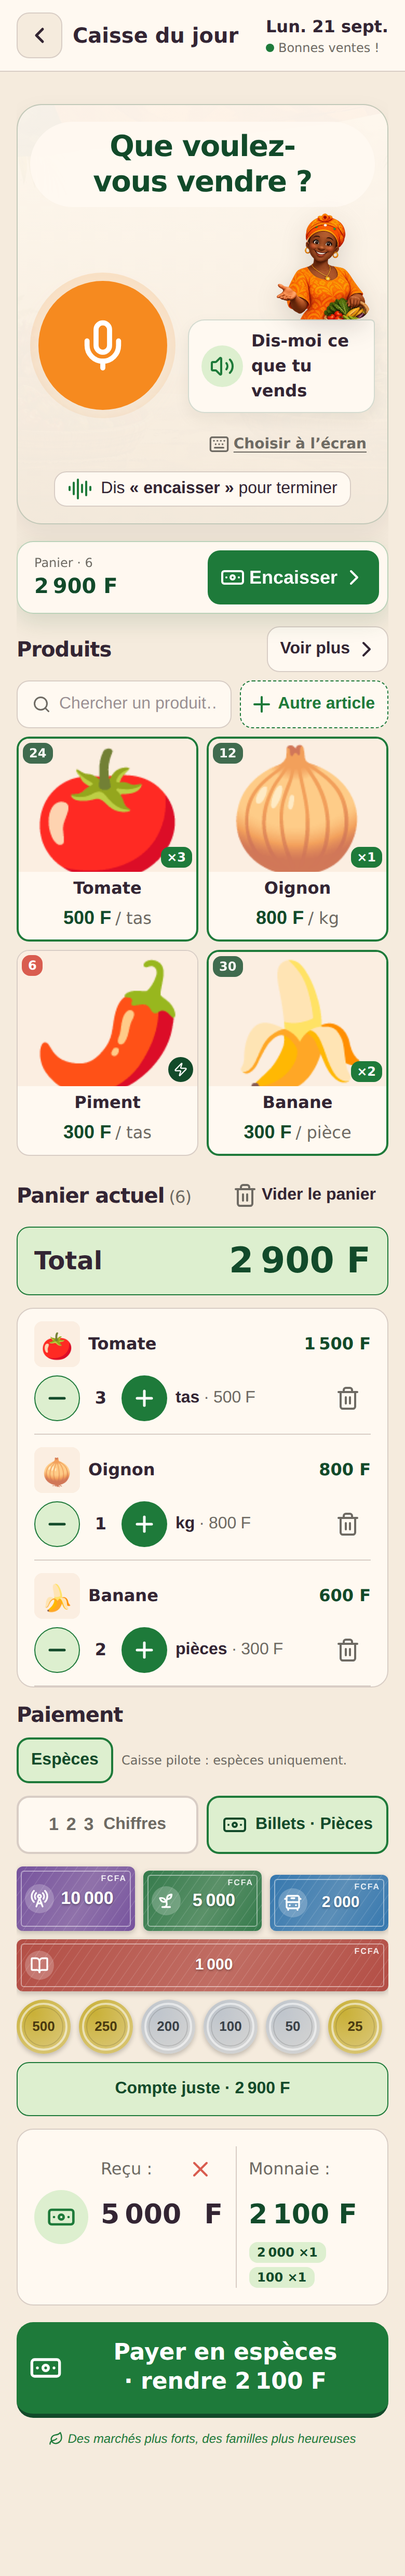
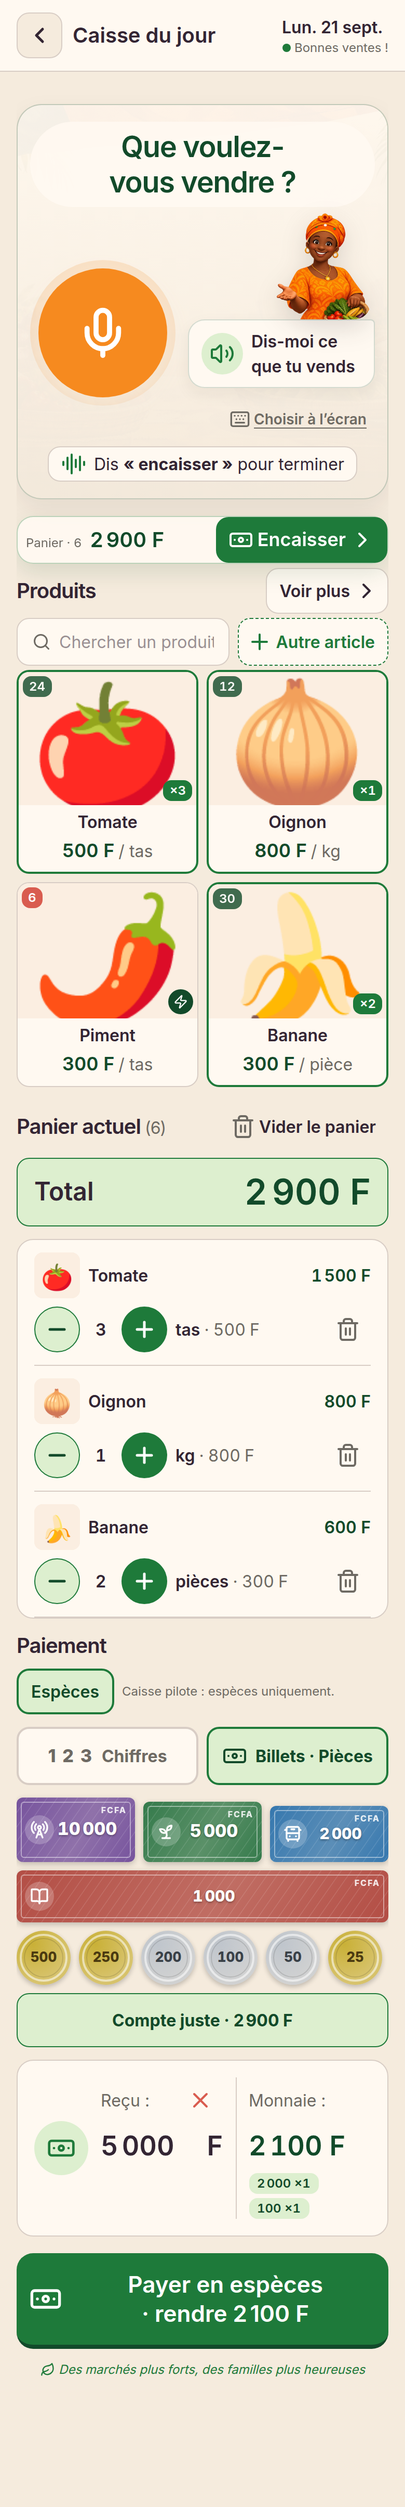
fix(caisse): UI-06 — la carte produit tient au premier ecran
Decision de Patrick : on garde le raccourci panier et le Total au premier ecran,
on reduit seulement son encombrement vertical.

MESURES, banc 390x844, defilement 0, panier de demonstration.
Avant  : premiere carte produit 684 -> 880 pour un ecran de 844, 36 px manquants.
Apres  : 644 -> 840, la carte entiere tient, 4 px de marge.
Le raccourci passe de 82 a 50 px de flux : hauteur 70 -> 46, marge 12 -> 4.

COMMENT. Une seule ligne : le nombre d'articles et le total complet sont
desormais cote a cote au lieu d'etre empiles, et le padding vertical du bloc
disparait au profit du bouton. Le bouton descend de 52 a 44 px, le plancher
tactile, jamais en dessous. Cela rend 32 px. Les 4 derniers viennent de deux
marges de 8 a 4 px, sous « Produits » et sous la rangee du filtre : ni la zone
voix ni les cartes produit ne sont touchees, comme exige.

Aucune logique metier modifiee : deux regles CSS et deux marges en ligne.
Le garde-fou du chemin d'argent reste silencieux, aucun fichier du noyau touche.

BANC : sortie 0, les quatre conditions tiennent sans tricherie — surface de
vente comprehensible, acces vocal et tactile, apercu du panier, Total visible.

Le banc n'est PAS branche dans verify, et c'est motive : il lui faut un Chromium
a un chemin fixe, absent des executeurs d'integration continue, et aucun flux
d'integration ne lance verify aujourd'hui. L'y brancher ne garderait rien en
integration continue et rendrait verify dependant d'un binaire de navigateur.
[…]

Changed region(s): [[0.0308, 0.0, 0.9846, 0.9647], [0.0923, 0.0, 0.1231, 0.0311]]

diff --git a/frontend_src/src/styles/commerce.css b/frontend_src/src/styles/commerce.css
@@ -337,11 +337,11 @@ html.dark {
 
 /* Panier visible sans second écran : ce dock reste dans le flux et conduit au
    paiement déjà présent sur la même page. Il ne contient aucune action d'argent. */
-.caisse-panier-raccourci { position: sticky; top: 0; z-index: 20; display: grid; grid-template-columns: minmax(0, 1fr) auto; align-items: center; gap: var(--caisse-esp-2); margin: 0 0 var(--caisse-esp-3); padding: var(--caisse-esp-2); border: 1px solid rgba(30,122,58,.3); border-radius: var(--caisse-rayon-4); background: color-mix(in srgb, var(--caisse-ivoire) 92%, transparent); box-shadow: 0 8px 22px rgba(18,74,42,.13); backdrop-filter: blur(10px); }
-.caisse-panier-raccourci-total { min-width: 0; display: flex; flex-direction: column; padding-left: var(--caisse-esp-2); color: var(--encre); }
+.caisse-panier-raccourci { position: sticky; top: 0; z-index: 20; display: grid; grid-template-columns: minmax(0, 1fr) auto; align-items: center; gap: var(--caisse-esp-2); margin: 0 0 var(--caisse-esp-1); padding: 0 0 0 var(--caisse-esp-2); border: 1px solid rgba(30,122,58,.3); border-radius: var(--caisse-rayon-4); background: color-mix(in srgb, var(--caisse-ivoire) 92%, transparent); box-shadow: 0 8px 22px rgba(18,74,42,.13); backdrop-filter: blur(10px); }
+.caisse-panier-raccourci-total { min-width: 0; display: flex; flex-direction: row; align-items: baseline; gap: var(--caisse-esp-2); padding-left: 0; color: var(--encre); }
 .caisse-panier-raccourci-total span { font: var(--caisse-font-legende); color: var(--caisse-gris-texte); }
 .caisse-panier-raccourci-total strong { font: var(--caisse-font-h2); color: var(--caisse-vert-fonce); font-variant-numeric: tabular-nums; white-space: nowrap; }
-.caisse-panier-raccourci button { min-height: 52px; display: flex; align-items: center; justify-content: center; gap: var(--caisse-esp-1); padding: 0 var(--caisse-esp-3); border: none; border-radius: var(--caisse-rayon-3); background: var(--caisse-vert); color: white; font: var(--caisse-font-bouton); font-family: inherit; cursor: pointer; }
+.caisse-panier-raccourci button { min-height: 44px; display: flex; align-items: center; justify-content: center; gap: var(--caisse-esp-1); padding: 0 var(--caisse-esp-3); border: none; border-radius: var(--caisse-rayon-3); background: var(--caisse-vert); color: white; font: var(--caisse-font-bouton); font-family: inherit; cursor: pointer; }
 @media (min-width: 1024px) { .caisse-panier-raccourci { display: none; } }
 
 /* Tata dans la caisse : l'image raconte le marché, mais le seul contrôle vocal

diff --git a/frontend_src/src/app/components/marchand/POSCaisse.tsx b/frontend_src/src/app/components/marchand/POSCaisse.tsx
@@ -996,7 +996,7 @@ function POSCaisseInner() {
             Au-dessus de 1024 px le panier est à CÔTÉ, pas dessous : la grille y
             reste entière et ce bouton n'existe pas (cf. .pos-grille-apercu
             dans styles/commerce.css). */}
-        <div style={{ display:'flex', alignItems:'center', justifyContent:'space-between', gap:'var(--caisse-esp-2)', marginBottom:'var(--caisse-esp-2)' }}>
+        <div style={{ display:'flex', alignItems:'center', justifyContent:'space-between', gap:'var(--caisse-esp-2)', marginBottom:'var(--caisse-esp-1)' }}>
           <h2 style={{ font:'var(--caisse-font-h2)', color:'var(--encre)', margin:0 }}>Produits</h2>
           {filtered.length > 4 && (
             <div className="lg:hidden">
@@ -1013,7 +1013,7 @@ function POSCaisseInner() {
             deux outils, pas deux sections — la maquette n'en montre aucun, ils
             restent pour celle qui a trente produits ou vend un article qui
             n'est pas listé. */}
-        <div style={{ display:'flex', gap:'var(--caisse-esp-2)', marginBottom:'var(--caisse-esp-2)' }}>
+        <div style={{ display:'flex', gap:'var(--caisse-esp-2)', marginBottom:'var(--caisse-esp-1)' }}>
         {/* UNE ÉTIQUETTE, PAS UNE BOÎTE — le défaut relevé par Patrick le 18/09.
             Il a tapé « banane » et rien n'est arrivé dans le champ : l'écran a
             continué d'afficher l'oignon. La cause n'était pas le filtre, elle

diff --git a/docs/dette/REGISTRE-MAITRE.md b/docs/dette/REGISTRE-MAITRE.md
@@ -1,6 +1,8 @@
 # Registre maître de dette technique — JULABA
 
 **Photo fidèle de la branche `claude/clever-allen-dnr8by`.**
+**Révision 28 — fermeture d'UI-06 sur `bbafafb`.** Patrick tranche : **on garde le raccourci panier et le Total au premier écran**, on réduit seulement son encombrement vertical. Le raccourci passe de 82 à 50 px de flux, une seule ligne, bouton au plancher tactile de 44 px, nombre d'articles et total complet conservés. La première carte produit tient désormais entière dans les 844 px, avec 4 px de marge, et **le banc sort à 0 sur les quatre conditions, sans tricherie**. Compte : **105 lignes — 39 FERMÉ / 5 HORS PÉRIMÈTRE JUSTIFIÉ / 61 OUVERT**. UI-05 reste ouverte.
+
 **Révision 27 — lot A8 (banc du premier écran, dette UI-05, tests d'écran Manus) sur `c527797`.** Le banc `apercu-caisse/capture.mjs` ne mesure plus une hauteur mais **la règle fonctionnelle tranchée par Patrick** : quatre conditions, à défilement zéro, panier non vide. **UI-03 n'est PAS rouverte** — mais ses chiffres de clôture ne tiennent plus (voir la ligne et ci-dessous) : c'est à Patrick de dire ce qu'on en fait. **Deux lignes ouvertes : UI-05** (P2, le raccourci panier n'est pas collant, cause isolée, 15 positions mesurées, aucun trou aujourd'hui) **et UI-06** (P2, aucune carte produit entière au premier écran quand le panier n'est pas vide — trouvée **par** la nouvelle règle). Compte recompté **par script** (`docs/dette/compter-registre.mjs`) : **105 lignes — 38 FERMÉ / 5 HORS PÉRIMÈTRE JUSTIFIÉ / 62 OUVERT** (avant : 103 — 38 / 5 / 60). Aucun statut existant ne change.
 **Révision 26 — lot F (architecture i18n voix, `2a62e9a`) contre-audité, NON fusionné, reprise lancée : aucune ligne existante fermée ; ses 4 invariants tiennent pour fr-ci (83/83 chaînes identiques à l'octet, 9 empreintes non circulaires, liste blanche = `576fd62`, STT/TTS séparés, brouillon refusé au runtime) mais pas pour la préférence « Dioula » déjà sélectionnable (I18N-01, P1 argent, introduit par F ; I18N-02, P2 — tous deux n'entrent qu'à la fusion). GARDE-02 reçoit la limite L5, fait plateforme reproduit sur le garde-fou fusionné : `test-voix-trace-source.mjs` ne voit ni `speakMessage(`, ni `direMessage(`, ni `dire(`, ni `direEtRetenir(`. Aucun statut ne change.**
 **Révision 25 — lot A (AUTH-RECOVERY-01, `521e1da`) contre-audité, NON fusionné, reprise lancée : le mécanisme tient (TTL, bcrypt, consommation atomique, révocation des refresh, aucun secret rendu, bornage de zone serveur) mais trois écarts avec la doctrine de Patrick (identificateur émetteur par nature, deux secrets reposés, rétrécissement à 4 chiffres) et deux défauts introduits (SEC-09, AUTH-02) qui n'entrent qu'à la fusion. Deux dettes PLATEFORME préexistantes, vérifiées sur `f5f26df`, ouvertes : SEC-10 (`users/:id/admin-reset-password` rend un mot de passe permanent en clair à l'admin) et AUTH-03 (un jeton d'accès survit 15 min à toute réinitialisation). Aucun statut existant ne change.**
@@ -652,7 +654,7 @@ reste multiple.
 | **UI-03** | **Arbitrage Patrick** | **FERMÉ** | *Fermée à la révision 20 (`62636e6`, contre-audit n°4).* Mesures du banc (`capture.mjs`, viewport 390 × 844, défilement 0) : zone voix **260 px** (cible 240-270), haut du panier **658 px**, barre Total **702-768 px** — dans le premier écran ; 38 cibles ≥ 44 px ; `scrollWidth` 390 (pas de défilement horizontal). Le banc **rougit** désormais si le haut du panier ou le bas du Total sort du viewport. Capture `caisse-portrait-UI03-comparaison.png` : voix + produits (une rangée) + « Panier actuel (6) » + **Total 2 900 F** visibles ; micro 124 px. **Écart structurel, à trancher par Patrick (pas un défaut)** : la barre **Total est AU-DESSUS des lignes du panier** (`renderCartTotal()` avant `renderCartLines()`, l. 1069-1071 et 1106-1107), alors que la maquette la met **dessous** — choix de l'agent pour que le Total reste au-dessus du pli avec dix lignes de panier. Le défaut d'origine : **hiérarchie du premier écran (F2) : à 390 × 844, panier, Total et Paiement passaient sous le pli.** Mesures de l'agent F2, à la même échelle (2 px d'image par px CSS), maquette → rendu : zone voix **217 → 386 px** (46 % du viewport), carte produit 99 → 180, Total 36 → 74, Reçu | Monnaie 86 → 170, bouton 48 → 92. Sur `caisse-portrait-F2-comparaison.png`, la maquette montre voix + produits + panier + Total + Paiement + bouton dans **771 px** ; le rendu F2 montre voix + « Dis encaisser » + « Saisir sans parler » + Produits (une rangée) dans **844 px**, le panier et l'argent en dessous. Deux consignes de Patrick tirent en sens inverse à cette hauteur : « agrandir nettement » (la zone voix) et « donner du poids à l'argent » | — *(consigné, pas tranché : ce n'est pas au contre-audit de choisir)* | **À trancher par Patrick** : garder la zone voix à 386 px et accepter l'argent sous le pli ; ou revenir vers 217-260 px pour ramener Total et Paiement dans le premier écran ; ou réduire le pli autrement (« Saisir sans parler » plus discret, une rangée de produits de moins).  **À LIRE AVANT DE S'APPUYER SUR CETTE LIGNE (révision 27, lot A8) : elle est FERMÉE SUR DES MESURES QUI NE TIENNENT PLUS.** Aucun des trois chiffres de clôture ci-dessus ne se retrouve sur la branche : mesuré sur `c527797`, zone voix **404 px** (et non 260), haut du panier **1 135** (et non 658), barre Total **1 179-1 245** (et non 702-768). Et la **règle** qu'elle avait installée dans le banc (« le banc rougit si le haut du panier ou le bas du Total sort du viewport ») a été **remplacée par Patrick** par les quatre conditions du premier écran ; le banc ne la mesure plus. **La ligne N'EST PAS ROUVERTE par ce lot** — ce qu'on fait d'une ligne fermée sur des chiffres périmés est un arbitrage, et cette ligne est déjà étiquetée « Arbitrage Patrick ». Ce que la nouvelle règle mesure et ce qu'elle a trouvé : UI-06. |
 | **UI-04** | P2 | **FERMÉ** | *Ouverte et fermée à la révision 20 (`62636e6`, trouvée par l'agent UI-03, reproduite au contre-audit n°4).* **Le lot F avait cassé l'aperçu du lot A en silence.** Sur `5bf2b0a`, la carte produit (`<motion.button onClick={() => ajouterAuPanier(p)}>`) portait `display:'flex'` **dans l'attribut `style`** ; un style inline bat la règle `.pos-grille-apercu > *:nth-child(n + 5) { display: none }` — **8 cartes visibles sur téléphone au lieu de 4** (visible sur `caisse-portrait-F2-comparaison.png` : deux rangées). Sur `96c7b64` : **0** `display` inline sur la carte ; `commerce.css` l. 276 `.pos-grille > * { display: flex; flex-direction: column }`, moins spécifique que la règle d'aperçu, qui gagne. Le banc `capture.mjs` compte `.pos-grille > *` visibles et **échoue au-delà de 4**. | `62636e6` | **Limite du garde-fou, à écrire** : `caisseSurfaceUnique.test.mts` l. 79-83 vérifie que la classe existe dans le JSX et que la règle existe dans le CSS — **la présence, pas l'effet**. Il est resté vert pendant trois révisions (F, relecture, F2) avec l'aperçu cassé. Seul un rendu (le banc headless) l'a vu. Une dette de test : soit le garde-fou vérifie aussi l'absence de `display` inline sur les enfants de `.pos-grille`, soit le banc entre dans `verify` |
 | **UI-05** | P2 | **OUVERT** | *Ouverte à la révision 27 (lot A8), reproduite par mesure sur `c527797` (= `e7f786a`, même arbre, mêmes parents).* **Le raccourci panier n'est pas collant : sa déclaration `position: sticky` est inerte.** `styles/commerce.css` l. 340 porte bien `.caisse-panier-raccourci { position: sticky; top: 0; z-index: 20 }`. **Cause isolée** : un élément `sticky` s'épingle dans son plus proche ancêtre DÉFILANT ; ici c'est la colonne de `POSCaisse.tsx` l. 925 (`<div className="lg:flex-1 lg:min-w-0" style={{ flex:1, overflowY:'auto', … }}>`, **antérieure au lot A9**), qui devient son scrollport et **ne défile jamais** sur téléphone : `scrollHeight === clientHeight` (2 290 = 2 290) et `scrollTop = 0` **aux 15 positions**. C'est la fenêtre qui défile, pas elle ; l'épinglage ne s'active donc pas. **Mesure, 390 × 844, panier non vide, 15 positions de défilement régulièrement réparties de 0 à 1 632 (`scrollMax`)** : le haut du raccourci vaut exactement `520 − y` à chaque position (520, 403, 287, 170, 54, −63, −179, −296, −413, −529, −646, −762, −879, −995, −1112) — une décroissance **strictement linéaire**, c'est-à-dire le comportement d'un bloc statique, jamais celui d'un bloc épinglé | **Ce lot NE CORRIGE PAS ce défaut** : changer l'`overflowY` d'un conteneur préexistant est une modification de mise en page, hors du périmètre d'un lot de banc et de registre. Mesuré et consigné, conformément à la consigne. Le lot A9 avait déjà écrit la limite en commentaire (`POSCaisse.tsx` l. 943-951) ; un commentaire ne ferme rien, d'où cette ligne | **Impact réel aujourd'hui : AUCUN TROU.** Un montant égal au total du panier reste lisible à **toutes** les positions mesurées, par recouvrement de trois porteurs successifs : le raccourci quitte l'écran à **y = 590** (bas = 590 − y ≤ 0), la barre Total entre à **y = 335** (haut = 1 179 − y < 844) — **255 px de recouvrement** ; la barre sort à y = 1 245, et « Compte juste · 2 900 F » entre à y = 1 155 — 90 px de recouvrement. **Condition de clôture :** le raccourci reste épinglé en haut de la fenêtre au-delà de y = 590, prouvé par une mesure à 15 positions où son `top` **se bloque** au lieu de décroître linéairement. **Le garde-fou actuel ne peut pas le voir** : `caisseSurfaceUnique.test.mts` §[6] lit la déclaration `position: sticky` dans le CSS, pas l'effet à l'écran (même limite que UI-04, section [5]) — la restriction est écrite en commentaire au-dessus de l'assertion. Ce qui EST garanti et mesuré par ailleurs : la condition 4/4 du banc (Total lisible à défilement 0). Mesures headless, aucun appareil réel |
-| **UI-06** | P2 | **OUVERT** | *Ouverte à la révision 27 (lot A8), mesurée au banc sur `c527797`.* **Aucune carte produit ne tient entièrement dans le premier écran quand le panier n'est pas vide.** `apercu-caisse/capture.mjs`, 390 × 844, défilement 0, panier de démonstration (6 articles, 2 900 F) : la grille commence à **y = 708** et la première rangée de cartes occupe **708 → 905** — il manque **61 px**. Les quatre cartes rendues sont coupées : la photo et la pastille de stock sont vues, **le nom et le prix sont sous le pli** (capture `caisse-portrait-A8.png`). Le banc **rougit sur la condition 1/4**, « surface de vente compréhensible ». **Cause** : le raccourci panier du lot A9 (`.caisse-panier-raccourci`, 520 → 590 plus sa marge) s'insère **entre la zone voix et la grille** et repousse celle-ci de ~94 px ; panier vide, il n'est pas rendu et la première rangée tient | **Ce lot NE CORRIGE PAS ce défaut** : remonter la grille est une modification de mise en page de la caisse, hors du périmètre. Trouvé **parce que** le banc mesure désormais la règle fonctionnelle de Patrick et non plus une hauteur : l'ancienne règle ne regardait pas les cartes. **Vérifié dans les deux sens** : avec 70 px de moins au-dessus (triche à chaud, non commitée), les quatre conditions passent et le banc sort en 0 — le rouge est bien une mesure, pas un banc bloqué | **À trancher par Patrick**, comme UI-03 avant elle : (a) accepter qu'une carte soit coupée quand le panier n'est pas vide — et alors ajuster la condition 1/4 à ce que « compréhensible » veut dire pour lui ; ou (b) récupérer 61 px au-dessus (zone voix, bulle, rangée filtre + « Autre article », marge du raccourci) ; ou (c) raccourcir la carte de l'aperçu replié sous 1024 px. **Condition de clôture :** `node apercu-caisse/capture.mjs` sort en 0 sur la branche, sans triche. Mesures headless, aucun appareil réel |
+| **UI-06** | P2 | **FERMÉ** | *Ouverte à la révision 27 (lot A8), **fermée à la révision 28** (décision de Patrick : on garde le raccourci panier et le Total au premier écran, on réduit son encombrement).* Mesuré au banc, 390 × 844, défilement 0, panier de démonstration : la première carte produit finissait à **880 px** pour un écran de 844, soit **36 px manquants**. Elle finit maintenant à **840 px** : la carte entière tient, avec **4 px de marge**. | **Le raccourci passe de 82 à 50 px de flux** (hauteur 70 → 46, marge 12 → 4) : une seule ligne — le nombre d'articles et le total complet côte à côte au lieu d'être empilés — et le bouton descend de 52 à **44 px**, le plancher tactile, jamais en dessous. Cela rend **32 px**. Les **4 derniers** viennent de deux marges de 8 → 4 px, sous « Produits » et sous la rangée du filtre : ni la zone voix ni les cartes ne sont touchées, comme Patrick l'exigeait. | Le banc sort à **0**, les quatre conditions tiennent sans tricherie. **Marge de sécurité : 4 px seulement** — une police de repli ou une traduction plus longue peut la reprendre. Le banc n'est pas branché dans `verify` : il lui faut un Chromium à un chemin fixe, absent des exécuteurs d'intégration continue, et aucun flux d'intégration ne lance `verify` aujourd'hui. Il se lance à la main. Reste **UI-05** : le raccourci n'est toujours pas collant. |
 | **VOICE-01** | À surveiller | **FERMÉ** | *Fermée à la révision 22 (lot E, `3437272`, fusion `b9534e7`, contre-audit QA-E).* Le « Rapport de test » (`UniversalParametres.tsx` l. 967-975, `vlogPartager` → partage → presse-papier → alerte) contient : CONTEXTE (version/build/UA/plateforme/plugins SherpaStt-SherpaTts/`speechSynthesis`/voix désactivée), **dernier transcript brut** + dernière intention, VOIX RETENUE (voix de secours, dernier moteur, moteurs TTS/STT vus), JOURNAL VOIX horodaté avec +Δms (`ECRAN → TTS_DEMANDE → TTS_MOTEUR → TTS_FIN`, `STT_FIN` moteur + transcript + durée, `TTS_CHOIX dit:false`). Accessible **connecté**, pied de page rendu pour les 5 rôles, cible 44 px, sans garde dev. Journal `utils/voiceTrace.ts` : anneau de **200** (250 injectés → 200), ~97 Ko max, textes tronqués, données d'argent limitées à ce qui est dérivé de la phrase dictée, rien sur le réseau | `3437272` — **invariant « zéro comportement vocal modifié » prouvé** : les 7 fichiers instrumentés (`audioManager`, `elevenlabs`, `useVoiceCore`, `AppContext`, `offlineStt`, `nativeTts`, **`AppLayout`** — pas `voiceDebug`, contrairement au rapport de l'agent) sont identiques à `3917bb7` hors lignes `vtrace.`, aucune ligne mixte, aucun `await`/`try` ajouté, `_generation`/`_inFlight` intacts ; empreintes des 7 fichiers de règles de voix et inventaire des 16 fichiers d'appels identiques. Rouges rejoués sur `3917bb7` : **28 échecs** (`test:voix-trace-source`), module absent (`test:voix-trace`) ; section empreintes verte sur la base → fixture non circulaire. `test:ci` identique, aucun test existant modifié, `tsc`/`verify`/`test:ci`/`build` = 0 | Le journal a révélé **VOIX-04** et **VOIX-05** (owner Manus). Limites mineures reproduites, non corrigées : **GARDE-02**. Non prouvé : aucune exécution sur téléphone (contenu réel de `TTS_VOIX_NAVIGATEUR`, coût réel de `localStorage.setItem` sur WebView, `navigator.share`) |
 | **GARDE-01** | P3 outillage | **OUVERT** | *Ouverte à la révision 21 (lot D).* Deux limites de garde-fous, **reproduites** : (1) `test:jargon` (`antiJargon.test.mts` l. 57-60) extrait les chaînes par regex sans lexer et **lit donc les commentaires** — sur `0d01f6b`, 2 violations, toutes deux dans des commentaires (l'apostrophe de « n'est » ouvre une pseudo-chaîne fermée par celle de « c'est ») ; `738fb53` a reformulé plutôt qu'affaibli la règle. (2) `test:api-authorization` compte les `fetch(` directs **sur une ligne** (164) et rate les 9 multi-lignes / URL en variable (173 réels) : le jour où ne resteraient que ceux-là, il dirait « retire le filet » à tort | Pas un défaut des lots : les deux garde-fous ont fait leur travail | Lexer minimal pour l'anti-jargon (ignorer les commentaires) ; comptage multi-ligne pour le filet. Ne bloque rien aujourd'hui |
 | **GARDE-02** | P3 outillage | **OUVERT** | *Ouverte à la révision 22 (lot E).* Trois limites **reproduites au contre-audit, non corrigées** — consignées ici et non en note de VOICE-01, parce que documenter ne ferme pas : (L1) `voiceTrace.persister()` (l. 69-72) fait `JSON.stringify` + `localStorage.setItem` **synchrone à chaque événement** — journal plein mesuré à **99 001 octets**, ~0,32 ms de sérialisation par événement ; borné, hors fil audio, mais sans débounce ; (L2) `court()` (l. 90) est la seule fonction du journal **hors `try`** — un objet dont `toString` jette la ferait jeter ; impossible depuis les appelants actuels (tous passent des `string`), donc latent ; (L3) le message d'échec de `test-voix-trace-source.mjs` donne le premier écart mais **ne cite pas `--regenerer`**, qui n'est que dans l'en-tête du script | Pas un défaut du lot : le journal fait ce qu'il promet. (L4 — le rapport de l'agent E nommait `voiceDebug.ts` au lieu d'`AppLayout.tsx` parmi les 7 fichiers à empreinte — est corrigée par le journal des lots et par la ligne VOICE-01, pas une dette de code) | Débounce sur `persister()` ; `court()` sous `try` ; message d'échec qui cite la commande de régénération. Ne bloque rien aujourd'hui **Chevauchement à venir (révision 24, PR #245 non fusionnée) — limite L4 :** le niveau voix de Manus bloque dans `runExclusive` (`audioManager.ts` l. 327 de la PR) **avant toute trace**, sans `vtrace.ttsIgnoree` : le journal montrerait un `TTS_APPEL` sans raison de silence. Pas un fait plateforme tant que le code n'est pas fusionné ; à consigner comme L4 et à instrumenter côté plateforme à la fusion **L5 (révision 26, fait plateforme, reproduit par QA-F sur le garde-fou fusionné et vérifié sur `7c0b3ad`) :** la regex `APPELS` de `scripts/test-voix-trace-source.mjs` (l. 72) ne reconnaît que `speak \| speakAuto \| managerSpeak \| ttsSpeak \| ttsPlayBase64 \| speakClipOrText \| playClip \| speakDynamic \| speakBrowser \| parle \| parleSuite \| direIntro` — **ni `speakMessage(`, ni `direMessage(`, ni `dire(`, ni `direEtRetenir(`** : un appel vocal ajouté sous ces verbes dans un fichier inventorié (reproduit sur `LoginPassword.tsx` : `speakMessage('AUTH_01'), dire('Bonjour Tantie')` → **vert**, `speak('Bonjour Tantie')` → rouge) laisse le gate vert ; trou **latent** aujourd'hui (aucun des 16 fichiers n'appelle ces verbes), **actif dès la fusion du lot F**, qui introduit `speakMessage`/`direMessage`. Détail annexe : le message d'échec imprime « 1er écart #-1 : (absent) / (absent) » (l. 231, `findIndex` sur la référence) quand l'écart est un appel ajouté en fin de liste. Résiduel : étendre `APPELS` aux verbes de F et corriger le message ; statut inchangé |
